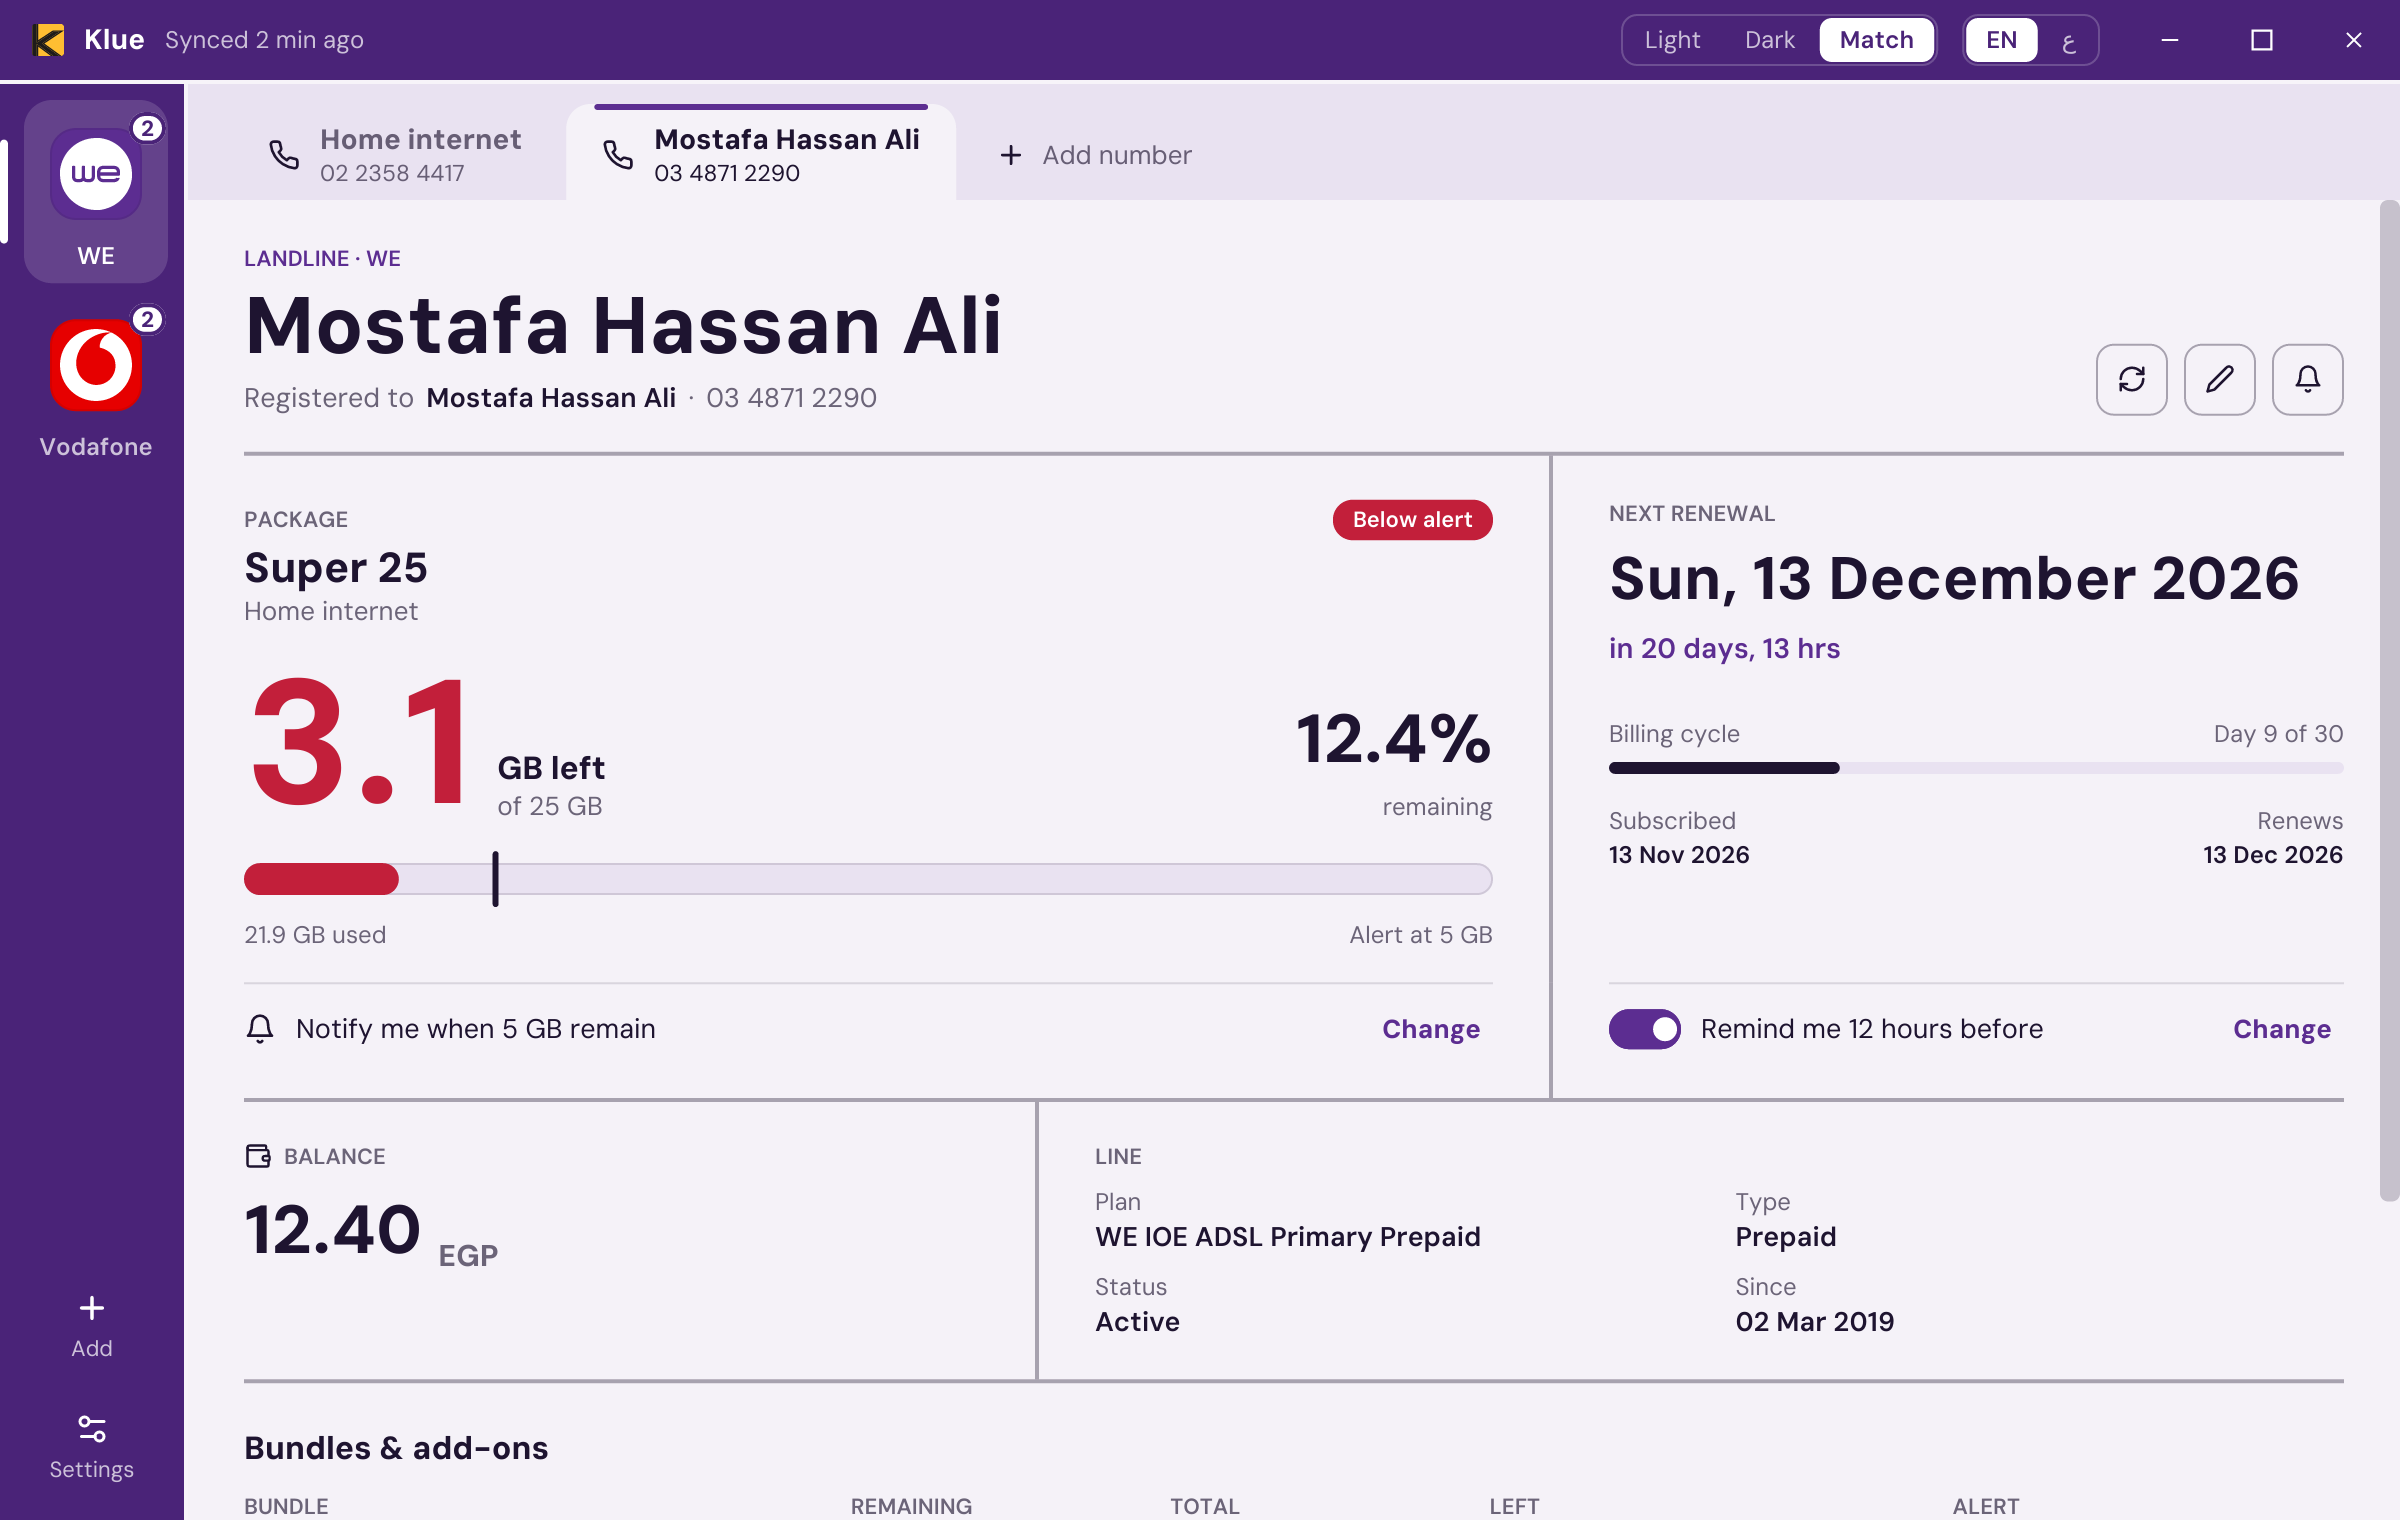
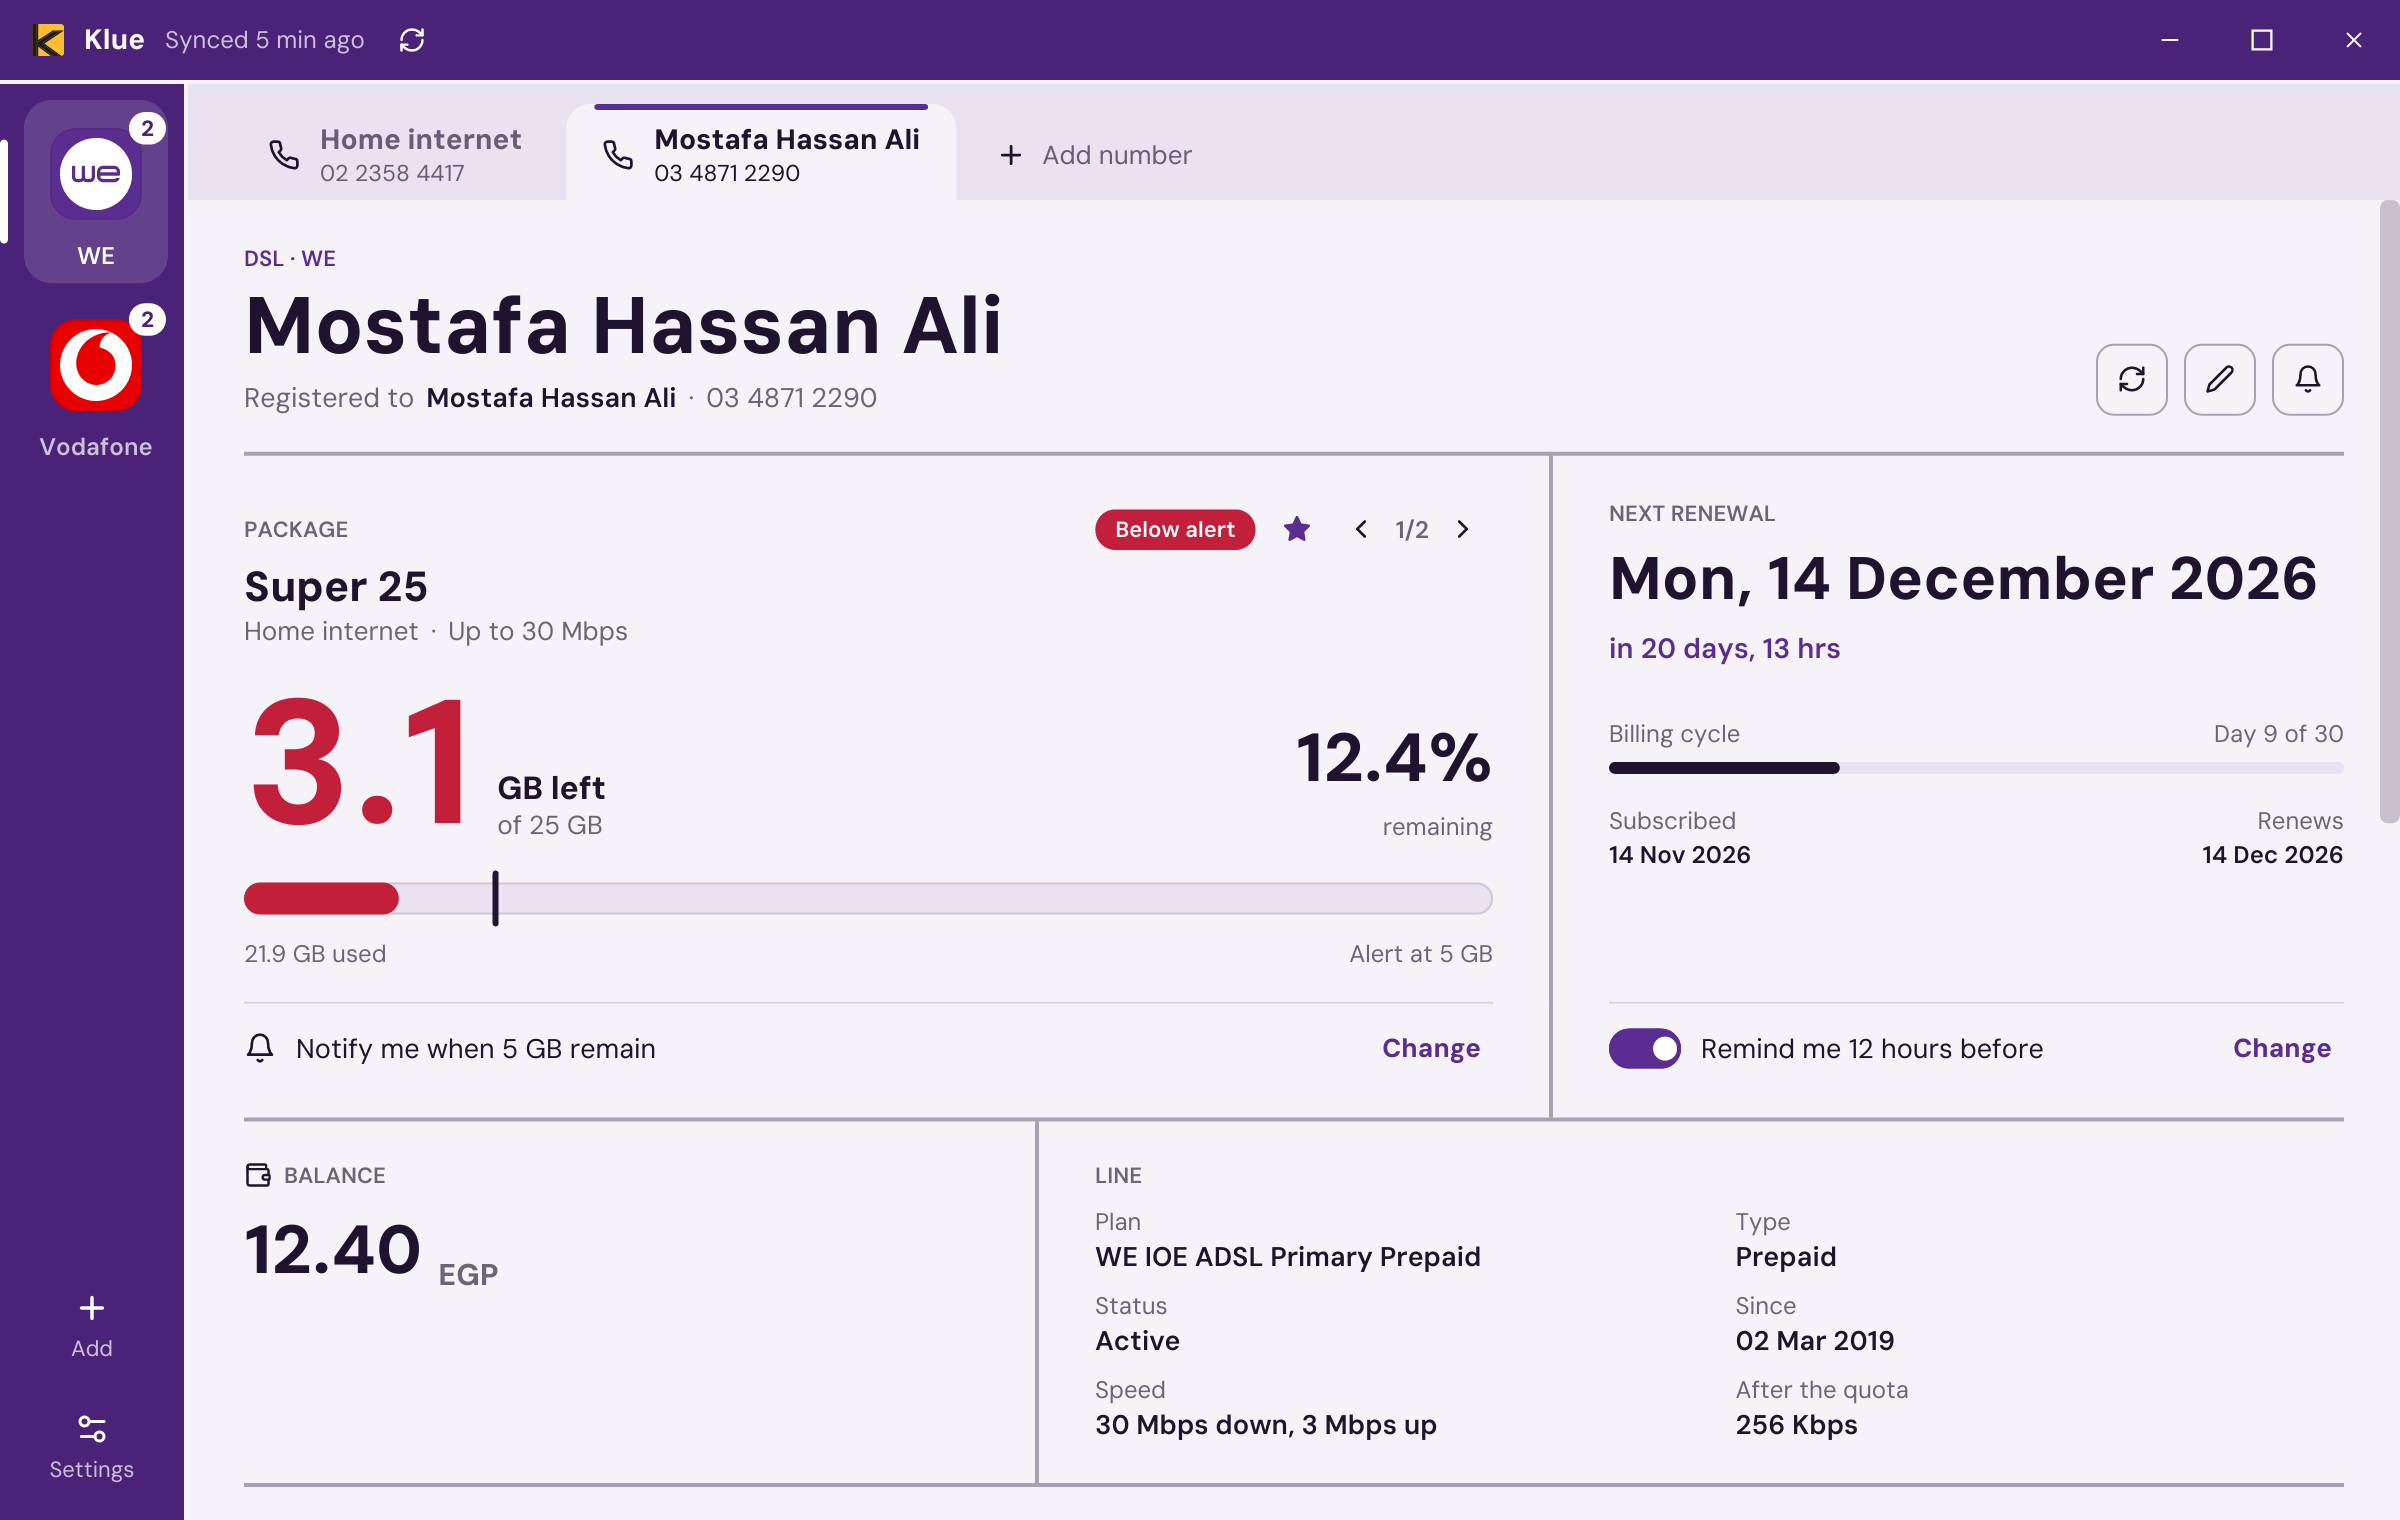
README: this round's features and new screenshots
The features list gains the usage graphs, WE speeds, bundle arrows on
the quota card, alerts for all numbers, notification sounds, alerts
that came due while Klue was off, the updater, the Start menu entry,
the About section and the disclaimer; Building lists --debug, and
Releasing says the updater only offers releases from main.

Every screenshot is re-taken from the demo (new title bar, DSL wording,
quota card arrows), two show the usage graph, the Add dialog shows WE
mobile coming soon, and the Vodafone one shows bundles and payments
under the graph.

In the tray popup, a borrowed or frozen line's note ("Settle by 28 Nov")
put the phone number on a second line after a dangling "·" depending on
the date's width; the number now always gets its own line there.

diff --git a/crates/klue-app/src/ui/popup.rs b/crates/klue-app/src/ui/popup.rs
@@ -55,7 +55,10 @@ pub fn view(app: &App) -> El<'_> {
             // A line too long for the row breaks after the "·", never inside the number.
             let number = account.pretty_number().replace(' ', "\u{a0}");
             let syncing = app.snap.is_refreshing(&account.id).then(|| s.syncing.to_string());
-            let sub = [syncing.or(state).or(renews), Some(number)].into_iter().flatten().collect::<Vec<_>>().join(" · ");
+            // A borrowed or frozen bundle's note ("Settle by 28 Nov") is too long to share a
+            // line with the number, whatever the date: the number goes on a line of its own.
+            let joiner = if syncing.is_none() && state.is_some() { "\n" } else { " · " };
+            let sub = [syncing.or(state).or(renews), Some(number)].into_iter().flatten().collect::<Vec<_>>().join(joiner);
             let text = column![ctx.semi(account.display_name(), 13.5), ctx.muted(sub, 11.5)].spacing(0).align_x(ctx.start()).width(Length::Fill);
             let right: El<'_> = match main {
                 Some(m) => column![

diff --git a/README.md b/README.md
@@ -16,20 +16,26 @@ A desktop app that puts the quota, package and renewal date of all your Egyptian
 - One tab per number, grouped by carrier; only carriers you have numbers with are listed. Each number shows its registered owner, an optional nickname, the package, what's left in each bucket in the bucket's own unit (GB, MB, minutes, units), the subscription date and the next renewal.
 - The balance in EGP, the line's plan, payment type and status, and the payment history (WE recharges and Vodafone payments).
 - A Vodafone Flex bundle renewed on credit is marked borrowed, with the date to pay by before Vodafone freezes it, or frozen once it has; what the line owes shows under the balance.
-- The main quota is the largest bucket that isn't empty. Any other bucket can be made the main one with its star.
-- Quota alerts at X GB or X% left, per bundle, and a renewal reminder X days or hours before renewal. Both arrive as desktop notifications.
+- The main quota is the largest bucket that isn't empty. The arrows on the quota card step through the number's other buckets, and any of them can be made the main one with its star.
+- WE lines show the package's speed (for example 30 Mbps down and 3 Mbps up) and the speed after the quota runs out, as WE's own site reports them.
+- Usage graphs. Klue keeps what each bucket had left at every refresh and draws it, over what was used per day or per hour, with today's usage, the averages and the day the quota runs out at that rate. Refreshes come whenever they come (the computer sleeps, Klue is closed), so usage between two refreshes is spread over the time between them, and the graph shows where that was a long wait; renewals, top-ups and one-off bad readings don't throw it off. Hovering a refresh's dot gives its exact minute. Until there are enough refreshes for a graph, the averages are estimates from the cycle so far.
+- Quota alerts at X GB or X% left, per bundle, and a renewal reminder X days or hours before renewal; Settings can set them for every number at once, and new numbers start with those. They arrive as desktop notifications with a sound (a warning tone for low quota, a softer one for the rest). Alerts that came due while Klue was closed or the computer slept arrive when it's back.
 - Adding a number signs in with the carrier's own password, checks it, and fills in the owner name from the account.
-- Light, Dark and Match themes. Match recolors the app with each carrier's brand colors.
+- Light, Dark and Match themes, in Settings. Match recolors the app with each carrier's brand colors.
 - English and Arabic, with a fully mirrored right-to-left layout. In Arabic, packages and plans carry the carrier's own Arabic names where it has them (WE's package names, Vodafone's plans and Flex); bundles the carriers only name in English stay in English. Fonts are DM Sans and Google Sans, bundled with the app.
 - A tray icon with a quick-view popup that closes when you click elsewhere. Closing the window leaves Klue in the tray and frees the window's memory. Optional launch at startup, minimized to the tray.
 - One Klue at a time: launching it again brings the running one forward.
+- Updates: on launch Klue looks for a newer release on GitHub and shows what's new. It can download and install it: the Windows and Linux builds replace their own program file and restart, and a macOS disk image or a Linux package opens in the system's installer. Only releases built from the `main` branch count.
+- On Windows, Klue adds itself to the Start menu (and to App Paths), so searching for it finds it, and its program file names Karim W. Almorsi as the publisher. Settings has an About section with the version and links.
+- A disclaimer to accept on first launch and after each update: carriers don't offer these APIs to apps like Klue, and using one is at your own risk.
 - Passwords live in the OS credential store (Windows Credential Manager, macOS Keychain or Secret Service), never in Klue's data file. Each is saved under the service `Klue` and the account `<carrier>:<number>` (for example `we:0223584417`), so any version of Klue finds it, and the list of your numbers is kept there too: an update or reinstall that starts with an empty data folder brings them back.
 
 | | |
 | --- | --- |
+| ![Usage per day, with a refresh's time](docs/screenshots/usage-days.png) | ![Usage per hour, dark theme](docs/screenshots/usage-hours-dark.png) |
 | ![Match theme, low quota](docs/screenshots/match-we-low-quota.png) | ![Dark theme, Vodafone](docs/screenshots/dark-vodafone.png) |
-| ![Balance, bundles and payments](docs/screenshots/vodafone-balance-payments.png) | ![Arabic](docs/screenshots/arabic-rtl.png) |
-| ![Add a number](docs/screenshots/add-number-verified.png) | ![Alerts](docs/screenshots/alerts.png) |
+| ![Bundles and payments](docs/screenshots/vodafone-bundles-payments.png) | ![Arabic](docs/screenshots/arabic-rtl.png) |
+| ![Add a number](docs/screenshots/add-number.png) | ![Alerts](docs/screenshots/alerts.png) |
 | ![Borrowed Flex bundle](docs/screenshots/vodafone-flex-borrowed.png) | <img src="docs/screenshots/tray-quick-view.png" alt="Tray quick view" width="240"> |
 
 ## Download
@@ -51,6 +57,7 @@ cargo run --release            # the app (binary: klue)
 cargo run -- --demo            # sample numbers from the mockups, nothing saved, no network
 cargo run -- --demo --quick-view   # start with the tray popup instead of the window
 cargo run -- --minimized       # start in the tray (what "Launch at startup" uses)
+cargo run -- --debug           # a console button in the title bar opens Klue's whole log
 cargo test -p klue-core --no-default-features
 ```
 
@@ -91,7 +98,9 @@ git tag v0.1.1 && git push origin v0.1.1
 
 or use **Actions → Release → Run workflow** and pick `dev` (the tag is then `v` plus the `Cargo.toml` version; untick *Publish* to only build). GitHub only shows that button once the workflow file is on the default branch (`main`).
 
-It builds `klue` on Windows, macOS (arm64 and x64) and Ubuntu 22.04, packages it with `packaging/package.sh` (zip, `.dmg` with `Klue.app`, `.deb` and `.tar.gz`) and attaches the files to a pre-release. If a build fails, the release stays a draft with that build's log attached.
+It builds `klue` on Windows, macOS (arm64 and x64) and Ubuntu 22.04, packages it with `packaging/package.sh` (zip, `.dmg` with `Klue.app`, `.deb` and `.tar.gz`) and attaches the files to a pre-release. If a build fails, the release stays a draft with that build's log attached. The version Klue reports (in About, and to the updater) is the tag's.
+
+Klue's updater only offers releases whose commit is on `main`: a release made from `dev` is skipped. The first release from `main` is the first one users are offered.
 
 ## Debugging the carrier parsers
 
